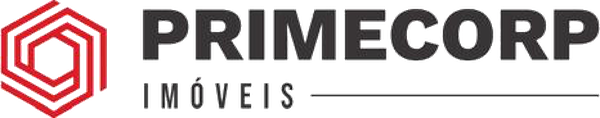
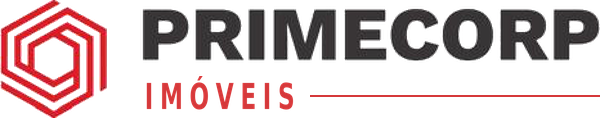
Logomarca: cabeçalho igual ao rodapé; trilha das etapas ligada 01→04 (#2)
- Cabeçalho usa a mesma logomarca do rodapé (versão para fundo claro).
- IMÓVEIS refeito em vermelho inteiro, PRIMECORP em preto (ou branco no rodapé).
- Linha da trilha de etapas vai do centro do 01 ao centro do 04.
- Teste do cabeçalho atualizado para a nova marca.

Claude-Session: https://claude.ai/code/session_01U7PGPYor8cFKzBBzUh2CbR

Changed region(s): [[0.24, 0.6356, 1.0, 0.9407]]

diff --git a/web/index.html b/web/index.html
@@ -257,7 +257,7 @@ section.papel{background:var(--papel)}
 
 /* ---------- trilha de etapas ---------- */
 .trilha{position:relative;display:grid;grid-template-columns:repeat(4,1fr);gap:0;margin-top:8px}
-.trilha::before{content:"";position:absolute;top:21px;left:12%;right:12%;height:2px;
+.trilha::before{content:"";position:absolute;top:21px;left:22px;right:calc(25% - 22px);height:2px;
   background:linear-gradient(90deg,var(--vermelho),var(--areia));opacity:.3}
 .passo{position:relative;padding:0 18px 0 0}
 .passo:last-child{padding-right:0}
@@ -643,19 +643,11 @@ footer ul{list-style:none;padding:0;margin:0;display:grid;gap:9px}
 @media (max-width:900px){.capa-grade2{grid-template-columns:1fr}}
 @media (prefers-reduced-motion:reduce){.cp-pulso{animation:none}}
 
-/* ---- refino 6: marca do cabeçalho em tipografia (mesmas cores da paleta) ---- */
-.topo .marca{gap:11px}
-.topo .marca .marca-sim{height:44px;width:auto;display:block}
-.marca-txt{display:flex;flex-direction:column;justify-content:center;line-height:1}
-.marca-txt b{font-family:var(--f-disp);font-weight:800;font-size:25px;letter-spacing:.005em;color:var(--grafite);line-height:1}
-.marca-txt > span{display:flex;align-items:center;gap:10px;margin-top:6px;font-family:var(--f-corpo);font-weight:700;font-size:13px;letter-spacing:.34em;color:var(--vermelho);line-height:1}
-.marca-txt > span::after{content:"";flex:1;min-width:34px;height:2px;background:var(--vermelho);opacity:.9}
+/* marca do cabeçalho: mesma logomarca do rodapé (versão para fundo claro) */
+.topo .marca .marca-h{height:44px;width:auto;display:block}
 @media (max-width:560px){
-  .marca-txt b{font-size:19px}
-  .marca-txt > span{font-size:11px;letter-spacing:.26em;margin-top:5px;gap:7px}
-  .marca-txt > span::after{min-width:18px}
-  .topo .marca .marca-sim{height:36px}
-  .topo .marca{gap:8px}
+  .topo .marca .marca-h{height:36px}
+}
 }
 
 .capa-acoes{display:flex;flex-wrap:wrap;gap:12px;margin-top:22px}
@@ -734,8 +726,7 @@ footer ul{list-style:none;padding:0;margin:0;display:grid;gap:9px}
 <header class="topo">
   <div class="faixa">
     <a href="./" class="marca" aria-label="PrimeCorp Imóveis">
-      <img class="marca-sim" src="assets/marca-simbolo-128.png" alt="PrimeCorp" width="128" height="143">
-      <span class="marca-txt"><b>PRIMECORP</b><span>IMÓVEIS</span></span>
+      <img class="marca-h" src="assets/marca-horizontal-600.png" alt="PrimeCorp Imóveis" width="600" height="118">
     </a>
     <button class="hamburguer" id="abrir-menu" aria-expanded="false" aria-controls="menu-principal" aria-label="Abrir menu de navegação"><span></span></button>
     <nav class="menu" id="menu-principal" aria-label="Principal">

diff --git a/testes/site.test.js b/testes/site.test.js
@@ -289,7 +289,7 @@ setTimeout(() => {
   const html = fs.readFileSync(path.join(DIR, "index.html"), "utf8");
   ok("não sobrou referência a municipios-sp.js", !/municipios-sp\.js/.test(html));
   ok("não sobrou 'todo o Brasil'", !/todo o Brasil/i.test(html));
-  ok("marca do cabeçalho com símbolo e tipografia", /marca-simbolo-128\.png/.test(html) && /class="marca-txt"/.test(html));
+  ok("marca do cabeçalho igual à do rodapé (versão para fundo claro)", /marca-horizontal-600\.png/.test(html) && /class="marca-h"/.test(html));
   ok("marca negativa no rodapé", /marca-horizontal-negativa-600\.png/.test(html));
   ok("vermelho da marca #d5383a", /#d5383a/.test(html) && !/#DB1D25|#db1d25/.test(html));
   ok("rodapé traz razão social e CNPJ", /PRIMECORP BROKERS CONSULTORIA E INTERMEDIAÇÃO DE NEGÓCIOS LTDA/.test(html) && /55\.745\.297\/0001-06/.test(html));
